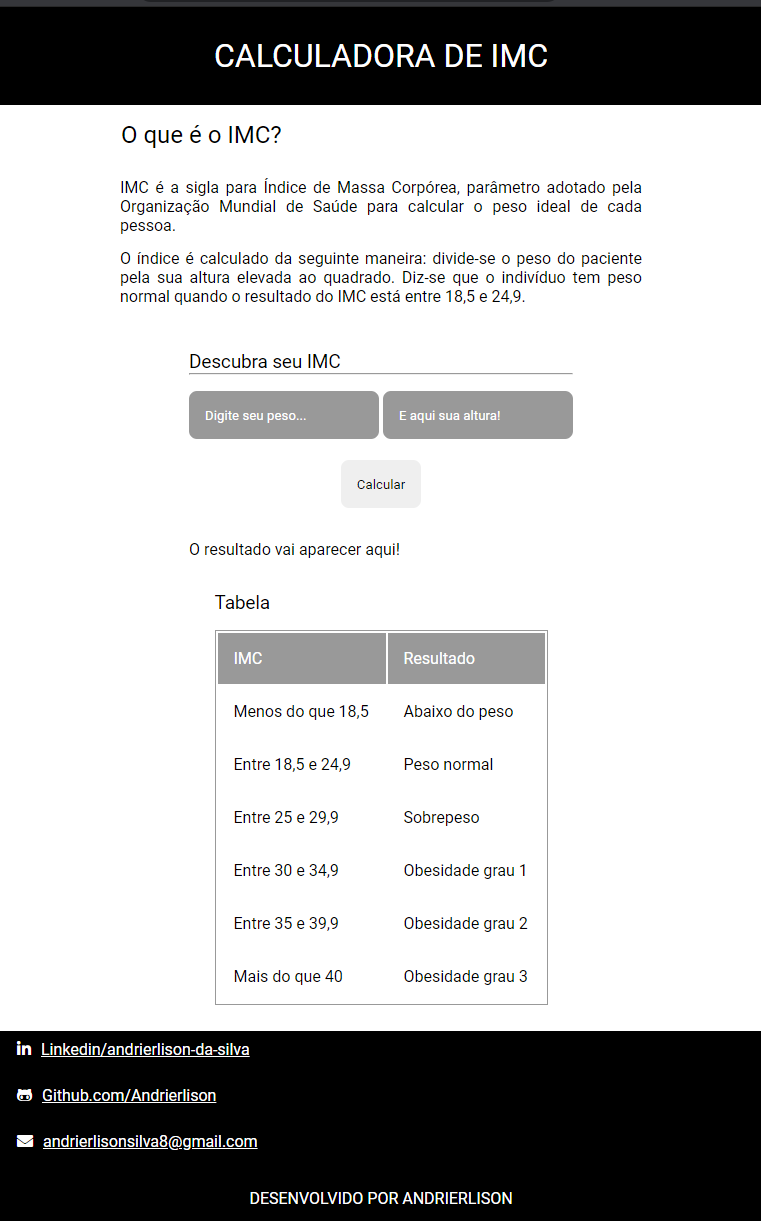
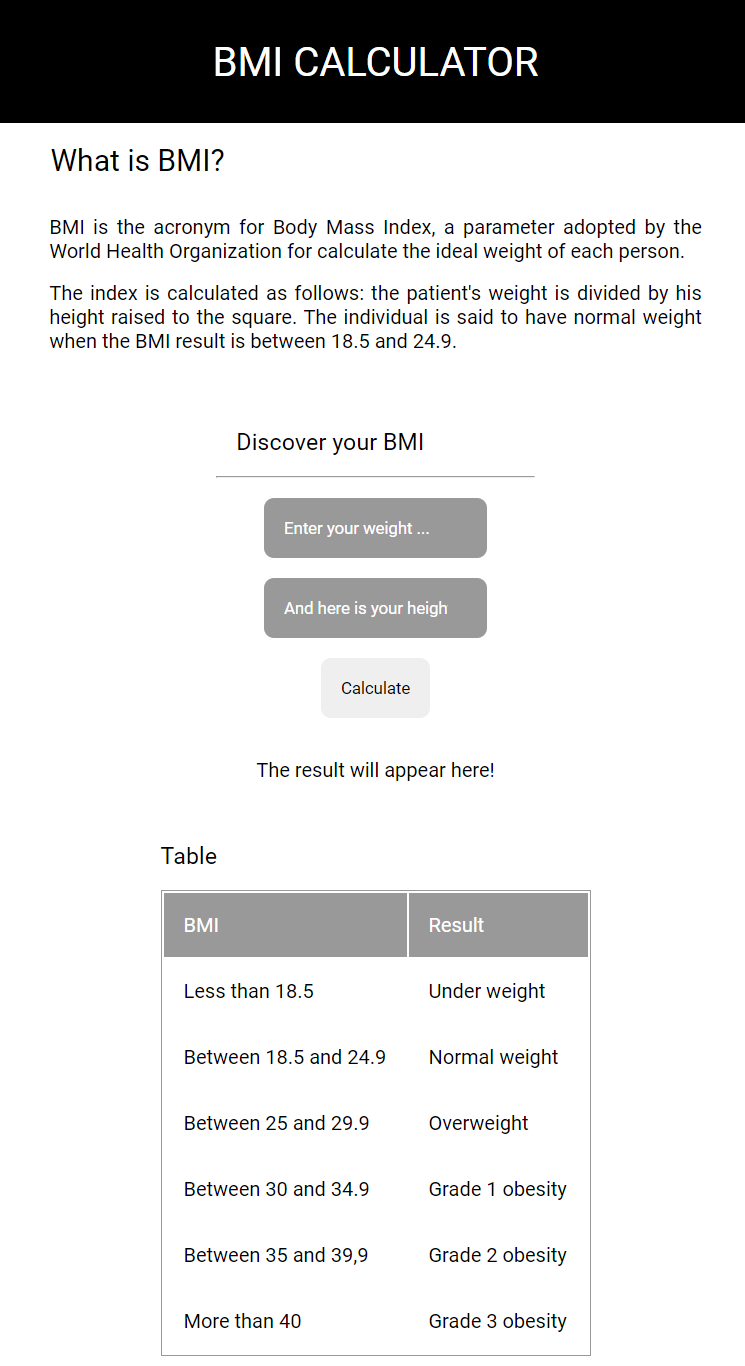
Bugs interface fix

diff --git a/index.html b/index.html
@@ -1,87 +1,87 @@
 <!DOCTYPE html>
-<html lang="pt-br">
+<html lang="en">
 <head>
-	<title>CALCULADORA DE IMC</title>
-	<script src="https://kit.fontawesome.com/57ded0e204.js" crossorigin="anonymous"></script>
-	<meta charset="utf-8">
-	<meta name="viewport" content="width=device-width, initial-scale=1.0">
-	<link rel="stylesheet" href="css/styles.css">
-	<link rel="stylesheet" href="https://fonts.googleapis.com/css?family=Roboto&display=swap">
+  <title>BMI CALCULATOR</title>
+  <script src="https://kit.fontawesome.com/57ded0e204.js" crossorigin="anonymous"></script>
+  <meta charset="utf-8">
+  <meta name="viewport" content="width=device-width, initial-scale=1.0">
+  <link rel="stylesheet" href="css/styles.css">
+  <link rel="stylesheet" href="https://fonts.googleapis.com/css?family=Roboto&display=swap">
 </head>
 <body>
-	<header class="mainHeader">
-		<h1>CALCULADORA DE IMC</h1>
-	</header>
-	<main>
-		<article class="description">
-			<h2>O que é o IMC?</h2>
-			<p>IMC é a sigla para Índice de Massa Corpórea, parâmetro adotado pela Organização Mundial de Saúde para
-				calcular o peso ideal de cada pessoa.</p>
-			<p>O índice é calculado da seguinte maneira: divide-se o peso do paciente pela sua altura elevada ao
-				quadrado. Diz-se que o indivíduo tem peso normal quando o resultado do IMC está entre 18,5 e 24,9.</p>
-		</article>
-		<article>
-			<h3>Descubra seu IMC</h3>
-			<hr>
-			<input type="number" id="kg" value="" placeholder="Digite seu peso...">
-			<input type="number" id="m" value="" placeholder="E aqui sua altura!">
-			<button onclick="calculateBmi()">Calcular</button>
-			<p class="results" id="result">O resultado vai aparecer aqui!</p>
-			<p class="results" id="imc"></p>
-		</article>
-		<article>
-			<h3>Tabela</h3>
-			<table class="tableInfo">
-				<thead>
-					<tr>
-						<td>IMC</td>
-						<td>Resultado</td>
-					</tr>
-				</thead>
-				<tr>
-					<td>Menos do que 18,5</td>
-					<td>Abaixo do peso</td>
-				</tr>
-				<tr>
-					<td>Entre 18,5 e 24,9</td>
-					<td>Peso normal</td>
-				</tr>
-				<tr>
-					<td>Entre 25 e 29,9</td>
-					<td>Sobrepeso</td>
-				</tr>
-				<tr>
-					<td>Entre 30 e 34,9</td>
-					<td>Obesidade grau 1</td>
-				</tr>
-				<tr>
-					<td>Entre 35 e 39,9</td>
-					<td>Obesidade grau 2</td>
-				</tr>
-				<tr>
-					<td>Mais do que 40</td>
-					<td>Obesidade grau 3</td>
-				</tr>
-			</table>
-		</article>
-	</main>
-	<footer>
-		<ul>
-			<li>
-				<a href="https://www.linkedin.com/in/andrierlison-da-silva-916775190/" target="_blank">
-					<i class="fab fa-linkedin-in"></i>Linkedin/andrierlison-da-silva
-				</a>
-			</li>
-			<li>
-				<a href="https://github.com/Andrierlison" target="_blank">
-					<i class="fab fa-github-alt"></i>Github.com/Andrierlison
-				</a>
-			</li>
-			<li><a href="mailto:andrierlisonsilva8@gmail.com"><i
-						class="fas fa-envelope"></i>andrierlisonsilva8@gmail.com</a></li>
-		</ul>
-		<p id="developer">DESENVOLVIDO POR ANDRIERLISON</p>
-	</footer>
-	<script src="./js/calculateBmi.js"></script>
+  <header class="mainHeader">
+    <h1>BMI CALCULATOR</h1>
+  </header>
+  <main>
+    <article class="description">
+      <h2>What is BMI?</h2>
+      <p>BMI is the acronym for Body Mass Index, a parameter adopted by the World Health Organization for
+        calculate the ideal weight of each person.</p>
+      <p>The index is calculated as follows: the patient's weight is divided by his height raised to the
+        square. The individual is said to have normal weight when the BMI result is between 18.5 and 24.9.</p>
+    </article>
+    <article>
+      <h3>Discover your BMI</h3>
+      <hr>
+      <input type="number" id="kg" value="" placeholder="Enter your weight ...">
+      <input type="number" id="m" value="" placeholder="And here is your height!">
+      <button onclick="calculateBmi()">Calculate</button>
+      <p class="results" id="result">The result will appear here!</p>
+      <p class="results" id="imc"></p>
+    </article>
+    <article>
+      <h3>Table</h3>
+      <table class="tableInfo">
+        <thead>
+          <tr>
+            <td>BMI</td>
+            <td>Result</td>
+          </tr>
+        </thead>
+        <tr>
+          <td>Less than 18.5</td>
+          <td>Under weight</td>
+        </tr>
+        <tr>
+          <td>Between 18.5 and 24.9</td>
+          <td>Normal weight</td>
+        </tr>
+        <tr>
+          <td>Between 25 and 29.9</td>
+          <td>Overweight</td>
+        </tr>
+        <tr>
+          <td>Between 30 and 34.9</td>
+          <td>Grade 1 obesity</td>
+        </tr>
+        <tr>
+          <td>Between 35 and 39,9</td>
+          <td>Grade 2 obesity</td>
+        </tr>
+        <tr>
+          <td>More than 40</td>
+          <td>Grade 3 obesity</td>
+        </tr>
+      </table>
+    </article>
+  </main>
+  <footer>
+    <ul>
+      <li>
+        <a href="https://www.linkedin.com/in/andrierlison-da-silva-916775190/" target="_blank">
+          <i class="fab fa-linkedin-in"></i>Linkedin/andrierlison-da-silva
+        </a>
+      </li>
+      <li>
+        <a href="https://github.com/Andrierlison" target="_blank">
+          <i class="fab fa-github-alt"></i>Github.com/Andrierlison
+        </a>
+      </li>
+      <li><a href="mailto:andrierlisonsilva8@gmail.com"><i class="fas fa-envelope"></i>andrierlisonsilva8@gmail.com</a>
+      </li>
+    </ul>
+    <p id="developer">DEVELOPED BY ANDRIERLISON</p>
+  </footer>
+  <script src="./js/calculateBmi.js"></script>
 </body>
 </html>

diff --git a/css/styles.css b/css/styles.css
@@ -14,6 +14,10 @@ body {
   height: 100%;
 }
 
+li {
+  list-style: none;
+}
+
 .mainHeader {
   background-color: var(--color1);
   color: var(--color2);
@@ -29,6 +33,10 @@ main {
   display: flex;
   flex-direction: column;
   align-items: center;
+}
+
+article  h3 {
+  margin: 16px;
 }
 
 .description {
@@ -50,6 +58,7 @@ input {
   border-radius: 8px;
   padding: 16px;
   margin: 16px auto;
+  display: block;
   background-color: var(--color3);
 }
 
@@ -71,12 +80,12 @@ button:focus {
 }
 
 .results {
-  margin: 32px auto;
+  margin: 32px;
 }
 
 .tableInfo {
   border: solid 1px var(--color3);
-  margin: 16px auto;
+  margin: 16px;
 }
 
 .tableInfo thead {

diff --git a/js/calculateBmi.js b/js/calculateBmi.js
@@ -32,4 +32,3 @@ function calculateBmi() {
   }
   document.getElementById("result").innerHTML = res
 }
-

diff --git a/README.md b/README.md
@@ -1,5 +1,5 @@
 <h1 align="center">
-    <a href="https://andrierlison.github.io/calculadora_de_imc/">🔗BMI Calculator</a>
+    <a href="https://github.com/Andrierlison/bmi-calculator">🔗BMI Calculator</a>
 </h1>
 
 <p align="center">Simple and easy to use, this application quickly calculates BMI (body mass index) showing if you are at the ideal weight for your height.</p>
